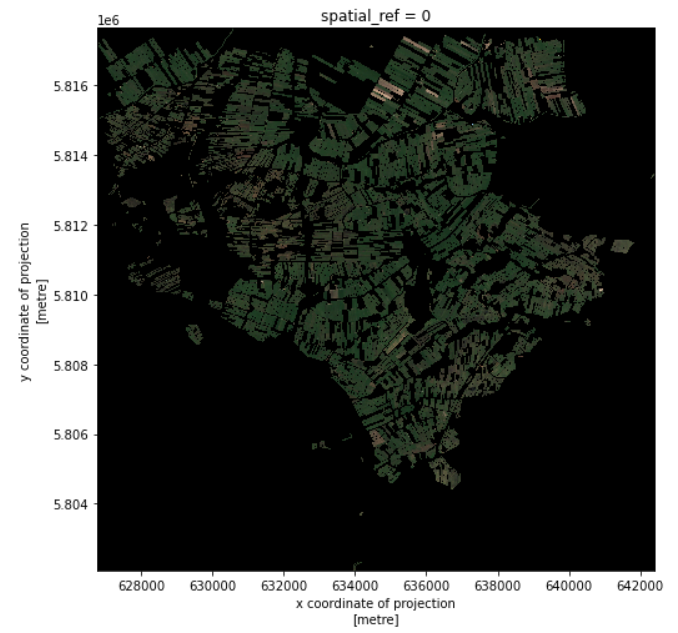
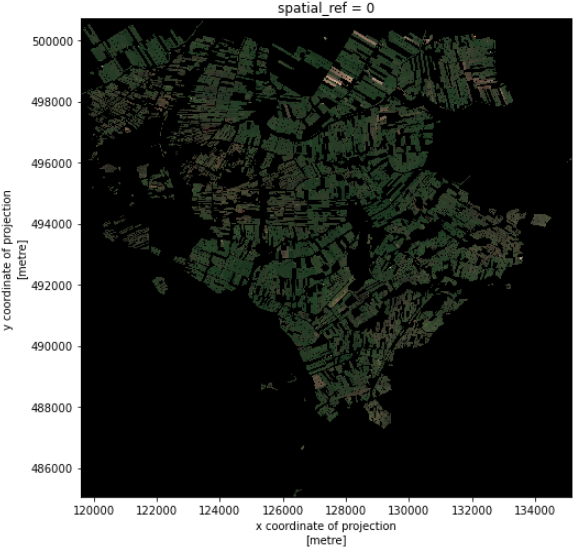
refactor an exercise to create a raster image, add section crop raster to raster, integrate reproject_match

Changed region(s): [[0.0, 0.0, 0.9796, 1.0]]

diff --git a/_episodes/20-crop-raster-data.md b/_episodes/20-crop-raster-data.md
@@ -12,6 +12,7 @@ keypoints:
 - "Use `clip_box` in `DataArray.rio` to crop raster with a bounding box."
 - "Use `clip` in `DataArray.rio` to crop raster with a given polygon."
 - "Use `buffer` in `geopandas` to make a buffer polygon of a (multi)point or a polyline. This polygon can be used to crop data."
+- "Use `reproject_match` function in `DataArray.rio` to reproject and crop a raster data using another raster data."
 ---
 
 It is quite common that the raster data you have in hand is too large to process, or not all the pixels are relevant to your area of interest (AoI). In both situations, you should consider cropping your raster data before performing data analysis.
@@ -229,15 +230,32 @@ raster_clip_polygon.plot.imshow(figsize=(8,8))
 {: .challenge}
 
 > ## Exercise: Select the raster data within crop fields
-> Let's select out all the crop fields from the raster data, using the `.shp` file in `data/crop_fields` and visualize the results.
+> Imagine that we want to select out all the crop fields from the raster data,
+> using the `.shp` file in `data/crop_fields`.
+>
+> 1. Convert the coordinate system of `raster_clip` to the coordinate
+system of `cf_boundary_crop`. Tip: we can use `rio.reproject()` function.
+> 2. Crop the `raster_clip`.
+> 3. Visualize the cropped data.
+> 4. Store the results. Tip: we learned how to do this in the first episode.
 >
 > > ## Solution
 > >
 > > ~~~
+> > # Load the crop fields polygons
+> > cf_boundary_crop = gpd.read_file("data/crop_fields/cf_boundary_crop.shp")
+> >
+> > # Convert the coordinate system
+> > raster_clip = raster_clip.rio.reproject(cf_boundary_crop.crs)
+> >
 > > # Crop
 > > raster_clip_fields = raster_clip.rio.clip(cf_boundary_crop['geometry'], cf_boundary_crop.crs)
+> >
 > > # Visualize
 > > raster_clip_fields.plot.imshow(figsize=(8,8))
+> >
+> > # Save
+> > raster_clip_fields.rio.to_raster("crop_fields.tif", driver="COG")
 > > ~~~
 > > {: .language-python}
 > > <img src="../fig/20-crop-raster-crop-fields-solution-06.png" title="Raster cropped by crop fields" width="512" style="display: block; margin: auto;" />
@@ -305,3 +323,108 @@ raster_clip_wells.plot.imshow(ax=ax2)
 > > <img src="../fig/20-crop-raster-dike-solution-07.png" title="Raster croped by buffer around dikes" width="512" style="display: block; margin: auto;" />
 > {: .solution}
 {: .challenge}
+
+## Crop raster data using another raster data
+
+Imagine that we have two raster data, let's say the `scene` and `crop_fields` in
+different coordinate systems. Our goal is to crop the `scene` image using the
+`crop_fields` image.
+
+> ## Using `crop_fields` raster image
+>
+> For this section, we will use the `crop_fields.tif` image that was produced in
+> the exercise "**Select the raster data within crop fields**".
+{: .callout}
+
+We read in both images and check their coordinate system:
+~~~
+# Read crop_fields
+crop_fields = rioxarray.open_rasterio("crop_fields.tif")
+CRS(crop_fields.rio.crs)
+~~~
+{: .language-python}
+
+~~~
+<Derived Projected CRS: EPSG:28992>
+Name: Amersfoort / RD New
+Axis Info [cartesian]:
+- [east]: Easting (metre)
+- [north]: Northing (metre)
+Area of Use:
+- undefined
+Coordinate Operation:
+- name: unnamed
+- method: Oblique Stereographic
+Datum: Amersfoort
+- Ellipsoid: Bessel 1841
+- Prime Meridian: Greenwich
+~~~
+{: .output}
+
+~~~
+# Read scene
+items = pystac.ItemCollection.from_file("search.json")
+scene = rioxarray.open_rasterio(items[1].assets["visual"].href)
+CRS(scene.rio.crs)
+~~~
+{: .language-python}
+
+~~~
+<Derived Projected CRS: EPSG:32631>
+Name: WGS 84 / UTM zone 31N
+Axis Info [cartesian]:
+- [east]: Easting (metre)
+- [north]: Northing (metre)
+Area of Use:
+- undefined
+Coordinate Operation:
+- name: UTM zone 31N
+- method: Transverse Mercator
+Datum: World Geodetic System 1984
+- Ellipsoid: WGS 84
+- Prime Meridian: Greenwich
+~~~
+{: .output}
+
+We can see that these images are in different coordinate systems. Now, we can
+use `rioxarray.reproject_match()` function to crop `scene` image. This might
+take a few minutes, because the `scene` image is large.
+
+~~~
+# Crop and reproject
+cropped_scene = scene.rio.reproject_match(crop_fields)
+
+# Visualize
+cropped_scene.plot.imshow(figsize=(8,8))
+~~~
+{: .language-python}
+
+> ## Exercise
+>
+> This time, let's crop the `crop_fields` image using the `scene` image. Discuss
+> the results.
+>
+> > ## Solution
+> >
+> > ~~~
+> > # Crop
+> > cropped_scene = crop_fields.rio.reproject_match(scene)
+> >
+> > # Visualize
+> > cropped_scene.plot.imshow(figsize=(8,8))
+> > ~~~
+> > {: .language-python}
+> > <img src="../fig/20-crop-raster-raster-solution-08.png" title="Raster croped by buffer around dikes" width="512" style="display: block; margin: auto;" />
+> {: .solution}
+{: .challenge}
+
+In one line `reproject_match` does a lot of helpful things:
+
+1. It reprojects.
+2. It matches the extent using `nodata` values or by clipping the data.
+3. It sets `nodata` values. This means we can run calculations on those two images.
+
+> ## Code Tip
+>
+> As we saw before, there also exists a method called `reproject()`, which only reprojects one raster to another projection. If you want more control over how rasters are resampled, clipped, and/or reprojected, you can use the `reproject()` method and other `rioxarray` methods individually.
+{: .callout}
